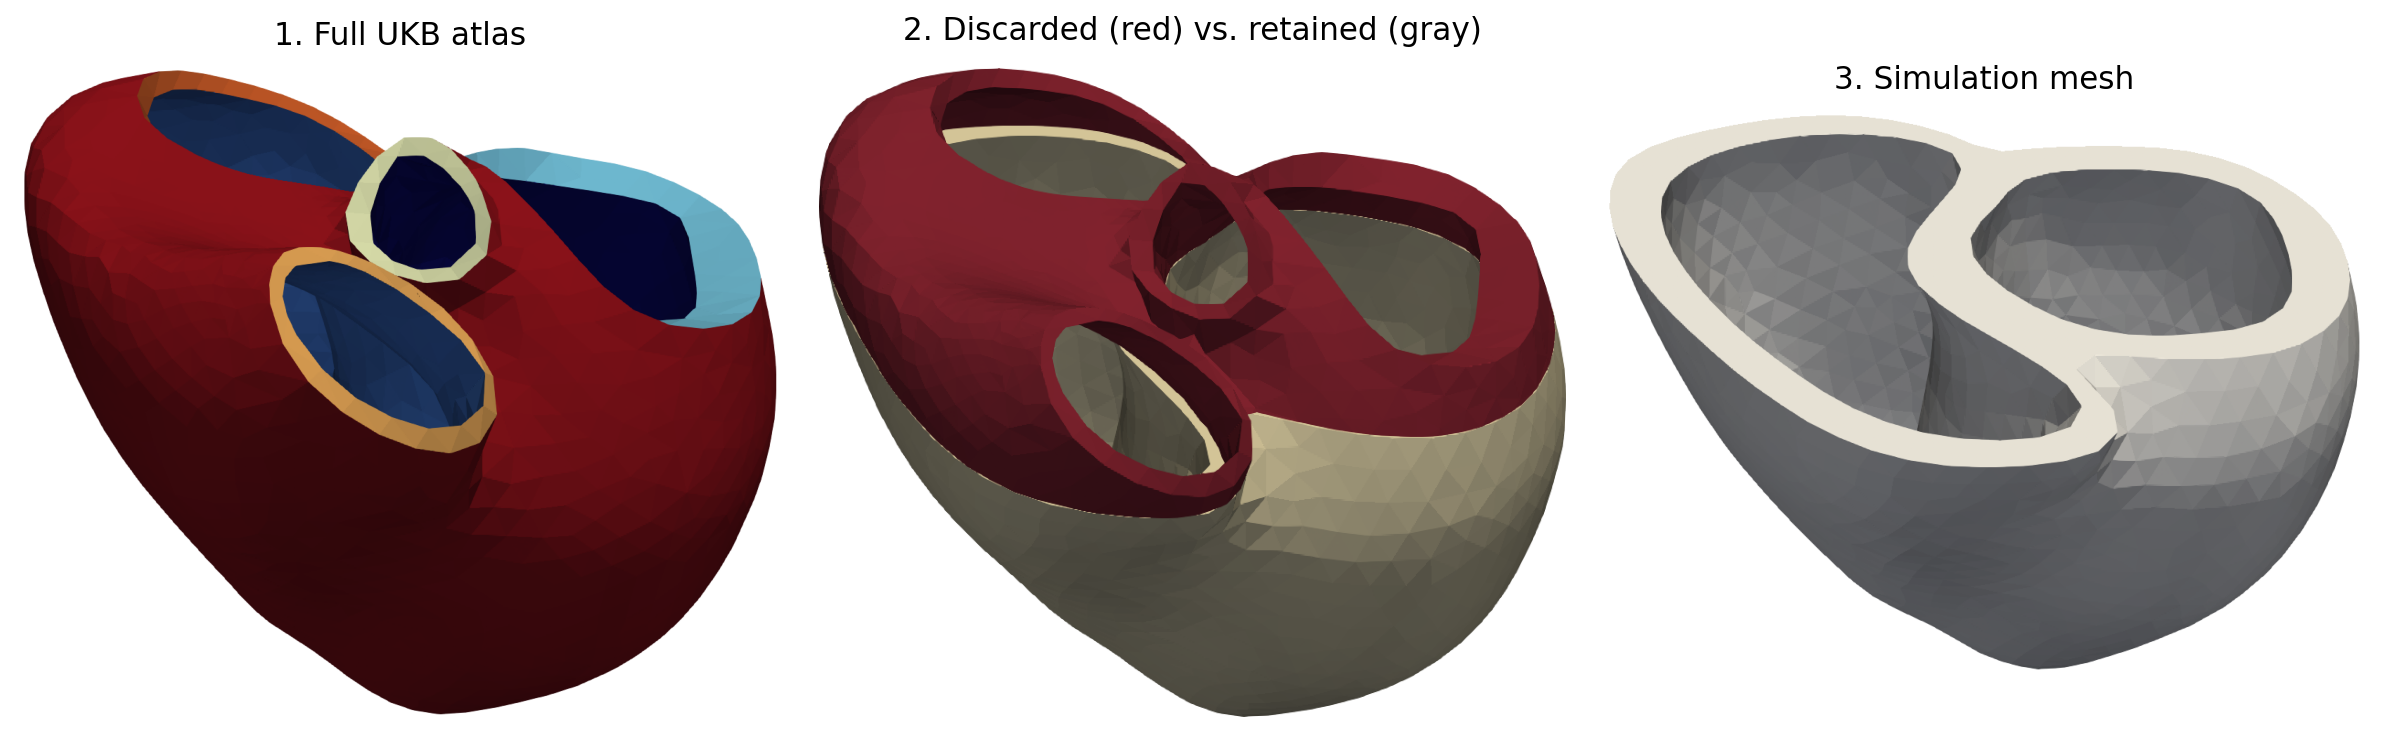
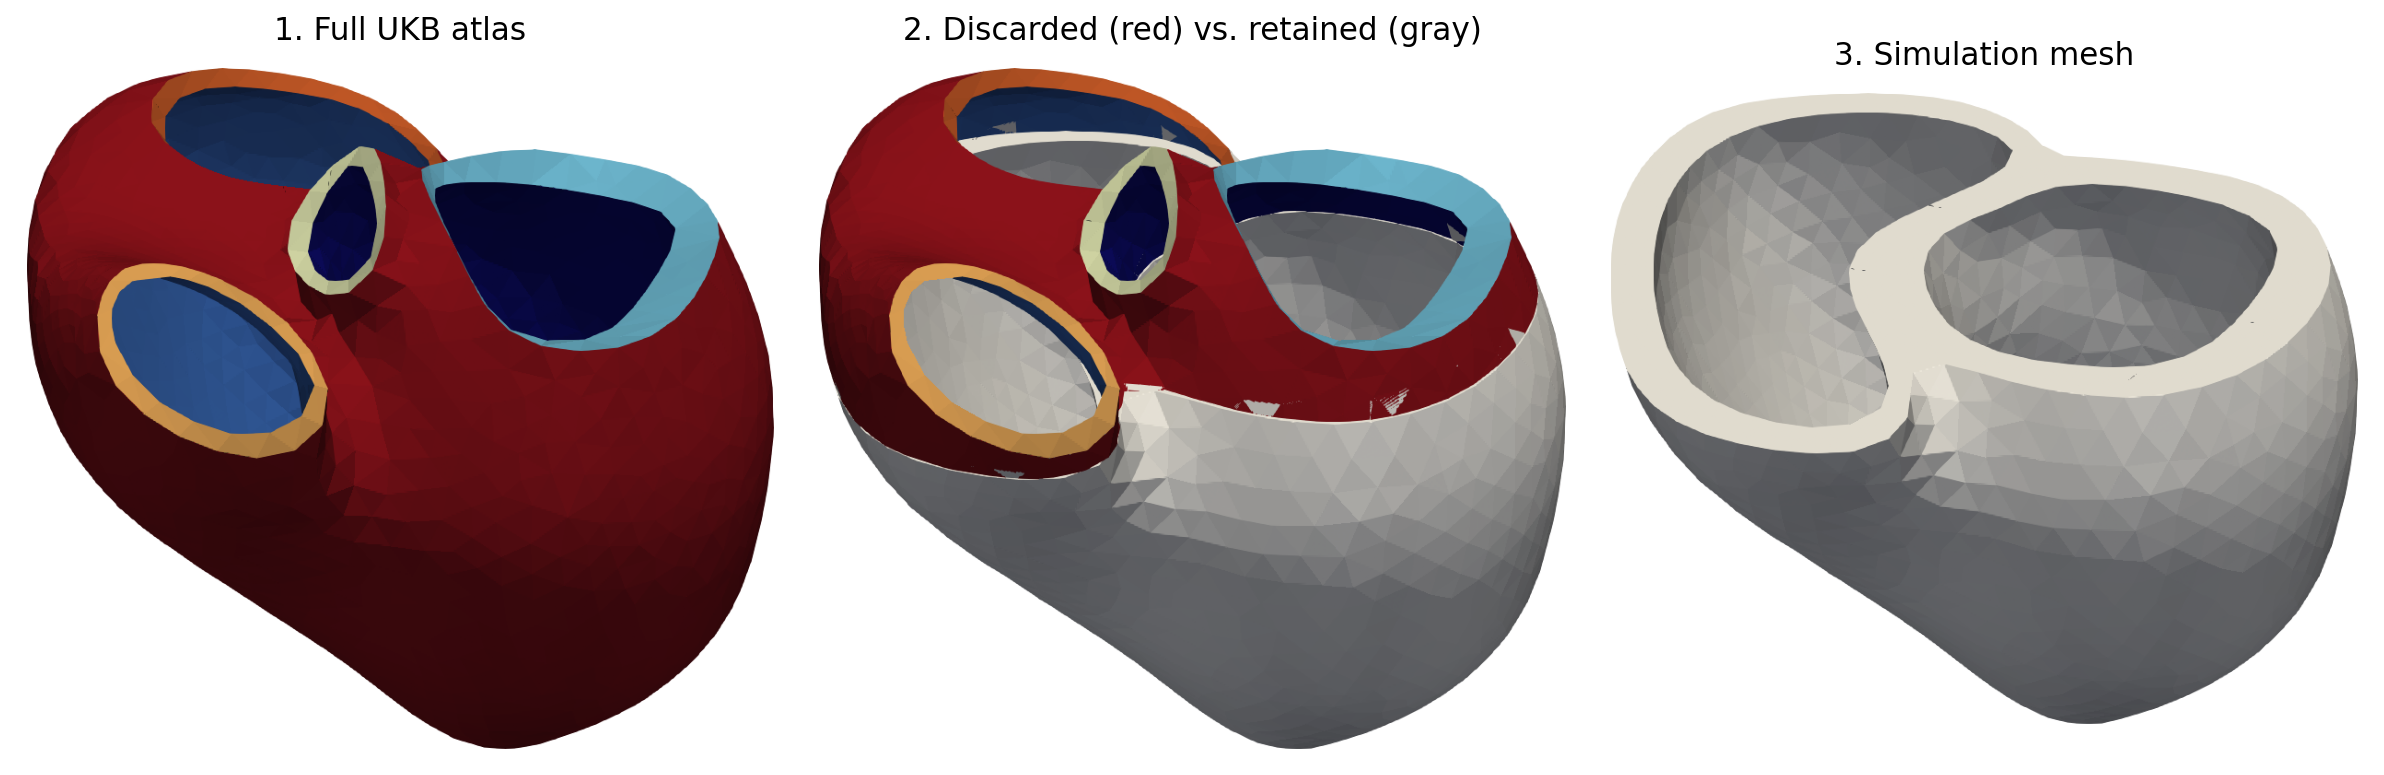
update geometry section full

diff --git a/02_the_model/geometry.md b/02_the_model/geometry.md
@@ -3,52 +3,53 @@
 (sec-geometry-anatomical-model)=
 ## The Anatomical Model Used In This Study
 
-One biventricular geometry runs through the entire thesis, built in three steps. The shape comes from the UK Biobank statistical atlas of Mauger et al. {cite}`mauger2019right`, taking the mean of a healthy sub-cohort of 630 cardiac MR scans as the baseline. The atlas is then truncated above the basal plane to leave the ventricular myocardium — a standard simplification in finite-element ventricular mechanics. What remains is meshed and labelled by `cardiac-geometries` {cite}`cardiac_geometries`: endocardial and epicardial surfaces, the basal cap, and a cell-level partition of LV free wall, RV free wall, and septum. {numref}`fig-mesh-regions` shows the result.
+The main production analyses in this thesis run on one biventricular geometry, built in three steps. The shape comes from the UK Biobank statistical atlas of Mauger et al. {cite}`mauger2019right`, taking the mean of a healthy sub-cohort of 630 cardiac MR scans as the baseline. The atlas is then cut at a single flat plane below the valves so that the basal boundary of the simulation domain is one planar surface rather than the irregular valve-annulus geometry — a standard simplification in finite-element ventricular mechanics {cite}`finsberg2018efficient,pluijmert2017determinants`. What remains is meshed and labelled by `cardiac-geometries` {cite}`cardiac_geometries`: endocardial and epicardial surfaces, the basal cap, and a cell-level partition of LV free wall, RV free wall, and septum. {numref}`fig-mesh-regions` shows the result, with the LV, RV, and septum coloured.
 
 ```{figure} ../figures/fig_2_1_mesh_regions.png
 :name: fig-mesh-regions
 :width: 70%
 
-Cell-level region tags on the clipped biventricular UK Biobank baseline mesh. Short-axis cut through mid-ventricle exposing the LV cavity (right), the RV cavity (left), and the wall thickness, with the LV free wall (blue), RV free wall (red), and interventricular septum (green) visible as separate tagged regions. The mesh stops at a single planar base just below the atrioventricular valves; the atria, the valves themselves, and the RV outflow tract above the pulmonary valve are not represented and are addressed by the basal-clipping figure that follows. The same colour mapping is reused everywhere region-resolved quantities are shown.
+Cell-level region tags on the clipped biventricular UK Biobank baseline mesh. Short-axis cut through mid-ventricle exposing the LV cavity (right), the RV cavity (left), and the wall thickness, with the LV free wall (blue), RV free wall (pale yellow), and interventricular septum (red) visible as separate tagged regions. The mesh stops at a single planar base just below the atrioventricular valves; the atria, the valves themselves, and the RV outflow tract above the pulmonary valve are not represented; see the next figure for the basal clip. The same colour mapping is reused everywhere region-resolved quantities are shown.
 ```
 
-The geometry is a clipped ventricular mesh rather than a full anatomical heart. The atria, valves, and outflow tracts above the valve plane are not represented spatially; they belong to the circulation model described in {ref}`sec-0d-circulation`. What remains is the ventricular myocardium between the apex and one planar base: the LV free wall, RV free wall, and interventricular septum. The LV and RV endocardial surfaces, the epicardial surface, and the basal cap are retained as boundary labels on this myocardial solid.
+Patient-specific healthy and PAH meshes also exist in the wider project and appear later as exploratory geometry-sensitivity checks. They are not part of the main pressure-loading sweep: keeping anatomy fixed is what lets the sweep isolate the pressure-strain approximation, rather than test it against simultaneously remodelled tissue. {ref}`chap-discussion` returns to the patient-specific cases as preliminary evidence that geometry and remodelling matter for the absolute magnitudes, but the main comparisons in this thesis use the single UKB baseline geometry.
 
-Making the finite-element domain the ventricular myocardium is a modelling choice, but a standard one in ventricular mechanics. The ventricular myocardium is the mechanically active, fibre-reinforced bulk tissue of the wall. Experimental and constitutive studies treat it as a nonlinear, nearly incompressible, direction-dependent material whose response is organized by local fibre and sheet architecture {cite}`holzapfel2009constitutive`. In contrast, the endocardium and epicardium are thin lining or covering layers. They matter here as surfaces: blood pressure acts on the endocardial cavity boundaries, epicardial springs support the outer boundary, and both surfaces help define transmural coordinates for fibre assignment. They are not given separate thicknesses or separate constitutive laws in this model.
+Anything above the basal cut — the upper portion of the outflow tracts, the valve regions, the atria, and the great vessels — is not represented spatially in this thesis; its hemodynamic role is carried by the 0D circulation model described in {ref}`sec-0d-circulation`.
 
-This ventricular truncation is common in finite-element ventricular mechanics models {cite}`finsberg2018efficient,pluijmert2017determinants`, but it is not anatomically neutral. In this geometry, the RV loses proportionally far more cavity volume above the basal plane than the LV, because its inflow and outflow geometry is more extended near the base. Closed-cavity volumes computed on the original UKB atlas before clipping give 119.6 mL for the LV and 128.7 mL for the RV. After the basal clip, the LV cavity drops to 111.5 mL — a 6.8% loss — while the RV cavity drops to 76.9 mL, a 40% loss. {numref}`fig-volume-clipped` shows the discarded material directly: the unclipped atlas surface (red) sits on top of the simulation mesh (gray), and the asymmetry between the two outflow caps is visible at a glance. The 3D--0D coupling in {ref}`sec-3d-0d-coupling` compensates for this mismatch with a fixed mesh-to-circulation volume scaling. The underlying spatial model, however, remains the clipped crescent-shaped RV shown in {numref}`fig-mesh-regions`, which should be kept in mind when interpreting RV-side quantities.
+The constitutive framework treats the ventricular myocardium as nonlinearly elastic, incompressible, and direction-dependent, with the response organized by local fibre and sheet architecture {cite}`holzapfel2009constitutive`. Near-incompressibility is enforced numerically in the finite-element implementation; the constitutive law and its boundary conditions are given in {ref}`sec-3d-mechanics`. The endocardium and epicardium are thin lining layers, not separate volumetric materials in this model. They matter here as surfaces: blood pressure acts on the endocardial cavity boundaries, epicardial springs support the outer boundary, and both surfaces define transmural coordinates for fibre assignment. {numref}`fig-surface-tags` shows the four boundary surfaces that carry these roles.
+
+```{figure} ../figures/fig_2_6_surface_tags.png
+:name: fig-surface-tags
+:width: 65%
+
+Boundary surface tags on the clipped biventricular mesh, generated automatically by `cardiac-geometries`, which labels each connected patch of the clipped surface: the LV endocardium (deep blue), the RV endocardium (light teal), the epicardial surface (orange-tan), and the basal cap (red rim). Each tag drives a different boundary condition in the mechanics solve and is reused as Dirichlet data for the LDRB Laplace problems in {ref}`sec-fibers`; details are given in {ref}`sec-mesh-generation` below.
+```
+
+The basal-plane clip is not anatomically neutral. The RV loses proportionally far more cavity volume than the LV, because its outflow geometry is more extended near the base. Closed-cavity volumes computed on the original UKB atlas before clipping give 119.6 mL for the LV and 128.7 mL for the RV. After the clip, the LV cavity drops to 111.5 mL — a 6.8% loss — while the RV cavity drops to 76.9 mL, a 40% loss. The cavity volumes are computed by applying the divergence theorem to a closed surface — the endocardium plus the valve-opening caps for the unclipped atlas, the endocardium plus the basal plane for the clipped simulation mesh. {numref}`fig-volume-clipped` shows the discarded material directly: the unclipped atlas surface (red) sits on top of the simulation mesh (gray). The 3D--0D coupling in {ref}`sec-3d-0d-coupling` compensates for this mismatch with a fixed mesh-to-circulation volume scaling, but the simulation still runs on the clipped crescent-shaped RV shown in {numref}`fig-mesh-regions`.
 
 ```{figure} ../figures/fig_2_3_volume_clipped.png
 :name: fig-volume-clipped
 :width: 95%
 
-Basal clipping in three beats. *Left:* the full UK Biobank atlas surface, with the openings of the mitral, aortic, tricuspid, and pulmonary valves visible at the top. *Middle:* the same atlas with the discarded cap (red) sitting on top of the retained ventricular bulk (gray) — the basal-plane cut is the boundary between them. *Right:* the simulation mesh used in the rest of this thesis. Closed-cavity integrals quantify the loss as 8.1 mL (6.8%) of the LV cavity and 51.8 mL (40%) of the RV cavity, so the asymmetry concentrates on the RV side, which is the side the central thesis question depends on. This volume loss is reabsorbed by the mesh-to-circulation volume scaling described in {ref}`sec-3d-0d-coupling`.
+Basal clipping in three beats. *Left:* the full UK Biobank atlas, with the four valve openings (mitral, aortic, tricuspid, pulmonary) visible as colour-tagged rings on the red epicardial surface. *Middle:* the same atlas (red) sitting on top of the retained ventricular bulk (gray) — the basal-plane cut is the boundary between them. *Right:* the simulation mesh used in the rest of this thesis. The grayish patches showing through the red cap in the middle panel are a rendering glitch where the two meshes meet along the basal cut, not actual overlap.
 ```
 
-Using one geometry is a deliberate restriction. It lets the longitudinal pressure-strain proxy be tested under controlled loading changes without simultaneously changing wall thickness, cavity size, septal curvature, or patient-specific segmentation details. This makes the interpretation cleaner: when the proxy changes across the sweep, the change comes from the imposed circulation and the resulting deformation, not from a different anatomy. The cost is that the sweep should not be read as a real PAH disease trajectory. Real PAH remodelling changes geometry and material properties together with pressure {cite}`vonk2013right,vonk2017relationship,humbert2022esc`. Patient-specific healthy and PAH meshes are available in the wider project and are discussed only as preliminary geometry-sensitivity checks and future-work motivation, not as part of the main result set reported in this thesis.
+```{figure} ../figures/fig_2_3b_side_views.png
+:name: fig-volume-clipped-side
+:width: 90%
+
+Side views of the full UK Biobank atlas (*left*) and the simulation mesh (*right*). The RV cavity reaches well above the basal plane, into the pulmonary outflow tract, while the LV cavity tapers earlier. The basal-plane cut therefore removes a larger fraction of the RV cavity than of the LV cavity.
+```
+
+The RV cavity surface in the simulation mesh is also not exactly the RV surface in the atlas. The UKB atlas exports the RV cavity as two separately-segmented pieces — septum-side and free-wall-side endocardia — and the meshing pipeline merges them and applies a Laplacian smoothing pass (100 iterations, relaxation 0.1) before tetrahedralization. The surface render of the unsmoothed atlas in the left panel of {numref}`fig-volume-clipped-side` looks fine on its own, but the *volume* tetrahedra needed to model the wall physics — fitting between the cavity and epicardial surfaces — degrade at the seam between the two atlas pieces unless the seam is smoothed first. The smoothing displaces the RV endocardial surface by 0.9 mm on average (up to about 7 mm locally near the seam) and thickens the RV wall against the unchanged epicardium by 1.2 mm on average, roughly a 19% relative thickening on the RV side. The LV endocardium and the epicardium are single-piece atlas surfaces and are not smoothed, so the LV wall thickness is exactly what the atlas defines.
+
+Using one geometry is a deliberate restriction. It lets the longitudinal pressure-strain proxy be tested under controlled loading changes without simultaneously changing wall thickness, cavity size, septal curvature, or the noise of any one patient's segmentation. This makes the interpretation cleaner: when the proxy changes across the sweep, the change comes from the imposed circulation and the resulting deformation, not from a different anatomy. The cost is that the sweep should not be read as a real PAH disease trajectory. Real PAH remodelling changes geometry and material properties together with pressure {cite}`vonk2013right,vonk2017relationship,humbert2022esc`, and that is exactly what the controlled-anatomy design is built to avoid.
 
 (sec-mesh-generation)=
 ## Mesh Generation
 
-Mesh generation is handled by the `cardiac-geometries` library {cite}`cardiac_geometries`. For the UK Biobank case, the function `cardiac_geometries.mesh.ukb()` generates a tetrahedral volume mesh directly from the mean atlas surface geometry, parametrized by a target characteristic element length. The production mesh uses a characteristic length of 5 mm, giving approximately 8000 tetrahedral cells. At this resolution, the mesh resolves the anatomical regions used for integration — LV free wall, RV free wall, and septum — but it is not designed to resolve detailed septal transmural layers. That limitation matters for the through-wall septal diagnostics in {ref}`chap-results`.
+Mesh generation is handled by `cardiac_geometries.mesh.ukb()` from the `cardiac-geometries` library {cite}`cardiac_geometries`, which calls the `ukb-atlas` pipeline described above and tetrahedralizes the resulting closed surface with `gmsh`. The production mesh uses a target element edge length of 5 mm, giving approximately 8070 tetrahedral cells; a finer convergence check at 3.75 mm (approximately 15000 cells) is also run as an endpoint comparison. At the production resolution the mesh resolves the LV free wall, RV free wall, and septum as integration regions, but it is not designed to resolve detailed septal transmural layers — a limitation that matters for the through-wall septal diagnostics in {ref}`chap-results`.
 
-```{table} Mesh and unit conventions used in the production simulations.
-:name: tab-mesh-units
-:align: left
+The four boundary tags of {numref}`fig-surface-tags` each drive a different boundary condition in the mechanics solve. The LV and RV endocardial tags carry the cavity-volume constraints, with cavity pressures returning as Lagrange multipliers. The epicardial and basal tags carry the Robin spring supports, and the basal tag also carries the partial Dirichlet constraint that removes the remaining rigid-body mode. The full boundary-condition treatment is given in {ref}`sec-3d-mechanics`.
 
-| Quantity | Convention |
-|---|---|
-| Production mesh size | characteristic length 5 mm, approximately 8070 tetrahedral cells |
-| Finer endpoint check | characteristic length 3.75 mm, approximately 15000 tetrahedral cells |
-| Coordinates in generated mesh | mm |
-| Coordinates in mechanics solve | m |
-| Hemodynamic pressure | mmHg |
-| Stress and work-density output | kPa, equivalent to kJ m$^{-3}$ |
-| Total work output | J or mJ |
-```
-
-All meshes are generated with node coordinates in millimeters and scaled by a factor of $10^{-3}$ to meters before any finite element computation. The mechanics solve uses this SI length scale, with material stresses and work densities reported in kPa, hemodynamic pressures reported in mmHg, and total work reported in J or mJ after unit conversion. Since work density has units J/m$^3$, it is equivalent to Pa and is converted to kPa for presentation. The meshes are rotated after generation so that the outward normal to the basal plane is aligned with the positive $x$-axis, a convention that simplifies the application of the out-of-plane Dirichlet constraint at the base.
-
-The boundary surfaces of the mesh are labeled with integer tags that distinguish the left ventricular endocardium, the right ventricular endocardium, the epicardial surface, and the basal plane. These tags serve multiple purposes downstream. The LV and RV endocardial tags define the cavity surfaces whose volumes are constrained in the coupled mechanics solve; the corresponding pressures are returned by the solver as Lagrange multipliers. The epicardial and basal tags define the Robin spring supports, and the basal tag also defines the partial Dirichlet constraint used to remove the remaining rigid-body mode. The same boundary tags provide the Dirichlet data for the Laplace problems used by the LDRB fibre-assignment algorithm in {ref}`sec-fibers`.
-
-The interventricular septum is defined at the cell level rather than the surface level: each finite element is tagged as belonging to the LV free wall, the RV free wall, or the septum. The native region tags come from the geometry and fibre-generation pipeline and are used for the LV and RV free-wall regions. For septal pressure-choice diagnostics, the postprocessing also constructs geometric septum masks from distances and Laplace coordinates between the LV, RV, and epicardial surfaces. This is why the results distinguish anatomical free-wall regions from diagnostic septal masks when needed.
+The interventricular septum is defined at the cell level rather than the surface level: each finite element is tagged as belonging to the LV free wall, the RV free wall, or the septum. The native region tags come from the geometry and fibre-generation pipeline and are used for the LV and RV free-wall regions. For septal pressure-choice diagnostics, the postprocessing also constructs geometric septum masks from distances and Laplace coordinates between the LV, RV, and epicardial surfaces. This is why the results distinguish anatomical free-wall regions from the geometric septum definitions built for the proxy comparison when needed.